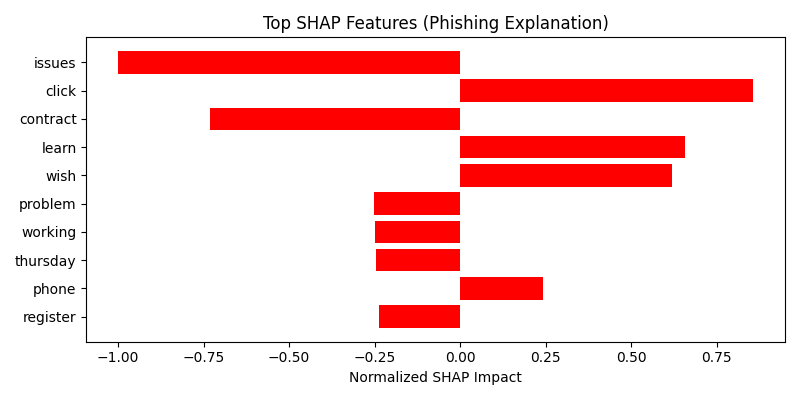
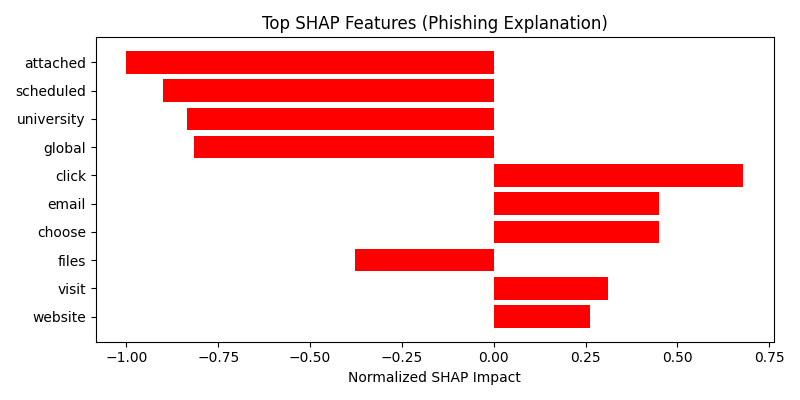
C Ajout de l'explication de la décision

diff --git a/web-extension/popup.js b/web-extension/popup.js
@@ -1,7 +1,47 @@
 document.getElementById("check").addEventListener("click", async () => {
-  const [tab] = await browser.tabs.query({ active: true, currentWindow: true });
+  const resultEl = document.getElementById("result");
+  const shapEl = document.getElementById("shap");
+  resultEl.textContent = "Analyzing...";
+  shapEl.innerHTML = "";
 
-  // Send a message to the content script to trigger extraction
-  browser.tabs.sendMessage(tab.id, { action: "extract_email" });
+  try {
+    const [tab] = await browser.tabs.query({ active: true, currentWindow: true });
+    const htmlContent = await browser.tabs.sendMessage(tab.id, { action: "extract_email" });
+
+    const response = await fetch("http://localhost:8000/analyze_html", {
+      method: "POST",
+      headers: { "Content-Type": "application/json" },
+      body: JSON.stringify({ html: htmlContent })
+    });
+
+    const data = await response.json();
+
+    if (data.error) {
+      resultEl.textContent = "Error: " + data.error;
+      return;
+    }
+
+    resultEl.innerHTML = `
+      <div><span>Language:</span> ${data.language}</div>
+      <div><span>Result:</span> ${data.is_phishing ? "Phishing" : "Legitimate"}</div>
+      <div><span>Confidence:</span> ${data.is_phishing ? (data.confidence * 100).toFixed(2) : (100 - data.confidence * 100).toFixed(2)}%</div>
+    `;
+
+    if (data.explanation && data.explanation.length > 0) {
+      shapEl.innerHTML = "<strong>Explanation:</strong>";
+      data.explanation.slice(0, 5).forEach(item => {
+        const token = document.createElement("div");
+        token.className = `token ${item.impact >= 0 ? "positive" : "negative"}`;
+        token.innerHTML = `
+          <span>${item.word}</span>
+          <span class="impact">${item.impact >= 0 ? "+" : ""}${item.impact.toFixed(4)}</span>
+        `;
+        shapEl.appendChild(token);
+      });
+    }
+
+  } catch (err) {
+    resultEl.textContent = "Error: " + err.message;
+  }
 });
 

diff --git a/web-extension/popup.html b/web-extension/popup.html
@@ -1,9 +1,60 @@
 <!DOCTYPE html>
 <html>
-  <head><title>Check Email</title></head>
-  <body>
-    <button id="check">Check for Phishing</button>
-    <p id="result"></p>
-    <script src="popup.js"></script>
-  </body>
+<head>
+  <title>Email Phishing Detector</title>
+  <style>
+    body {
+      font-family: Arial, sans-serif;
+      width: 300px;
+      padding: 15px;
+      background-color: #f9f9f9;
+    }
+    #check {
+      padding: 10px;
+      background-color: #007bff;
+      color: white;
+      border: none;
+      width: 100%;
+      cursor: pointer;
+      font-size: 14px;
+      border-radius: 5px;
+    }
+    #check:hover {
+      background-color: #0056b3;
+    }
+    #result {
+      margin-top: 15px;
+      font-size: 14px;
+    }
+    #result span {
+      font-weight: bold;
+    }
+    .shap-explanation {
+      margin-top: 10px;
+      font-size: 13px;
+    }
+    .token {
+      display: flex;
+      justify-content: space-between;
+      padding: 4px 0;
+      border-bottom: 1px solid #ddd;
+    }
+    .impact {
+      font-weight: bold;
+    }
+    .positive .impact {
+      color: red;
+    }
+    .negative .impact {
+      color: green;
+    }
+  </style>
+</head>
+<body>
+  <button id="check">Check for Phishing</button>
+  <div id="result"></div>
+  <div class="shap-explanation" id="shap"></div>
+
+  <script src="popup.js"></script>
+</body>
 </html>

diff --git a/web-extension/content.js b/web-extension/content.js
@@ -20,9 +20,10 @@ browser.runtime.onMessage.addListener((msg, sender) => {
 
     if (!html) {
       alert("⚠ Could not find the email content. Are you viewing an email?");
-      return;
     }
 
-    browser.runtime.sendMessage({ action: "analyze_email", html });
+    // 🔧 FIX: send result back to the popup
+    return Promise.resolve(html);
   }
 });
+

diff --git a/web-extension/phishing_api.py b/web-extension/phishing_api.py
@@ -125,7 +125,7 @@ async def analyze_html(req: HtmlRequest):
 
         return {
             "is_phishing": is_phishing,
-            "confidence": round(float(proba), 4),
+            "confidence": float(proba),
             "language": detected_lang,
             "explanation": explanation
         }
